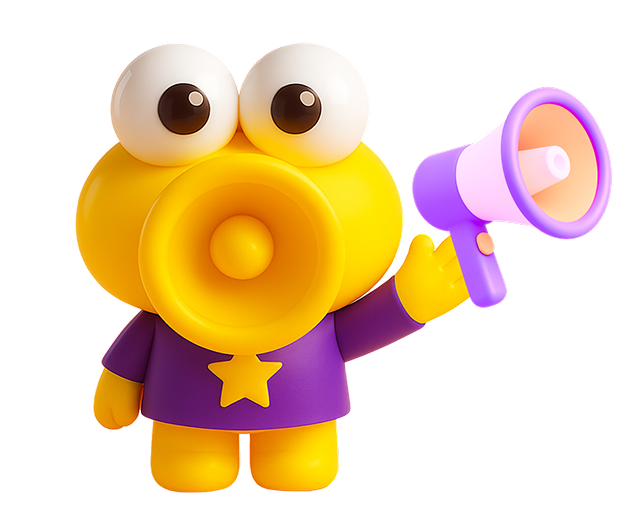
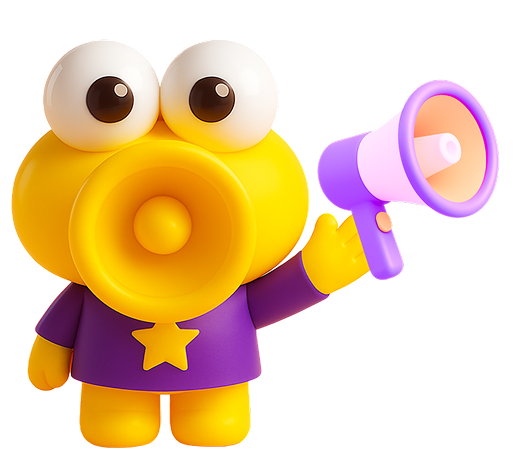
...

diff --git a/style.css b/style.css
@@ -416,23 +416,23 @@ ul {
 
 .Character-image {
     position: absolute;
-    top: 355px;
-    left: 30px;
-    width: 636px;
-    height: 521.5px;
+    top: 385.64px;
+    left: 153px;
+    width: 521px;
+    height: 473.536px;
     flex-shrink: 0;
-    aspect-ratio: 636.00/521.50;
+    aspect-ratio: 521.00/473.54;
     z-index: 2;
 }
 
 .Character-bigstar {
     position: absolute;
-    top: 94px;
-    left: 41px;
-    width: 625px;
-    height: 648.5px;
+    top: 152px;
+    left: 46px;
+    width: 577px;
+    height: 598px;
     flex-shrink: 0;
-    aspect-ratio: 625.00/648.50;
+    aspect-ratio: 577/598;
     z-index: 1;
 }
 
@@ -466,7 +466,7 @@ ul {
     align-items: flex-start;
     position: absolute;
     top: 713px;
-    right: 215px;
+    right: 200px;
     gap: 15px;
 
     color: var(--text-black, #121212);
